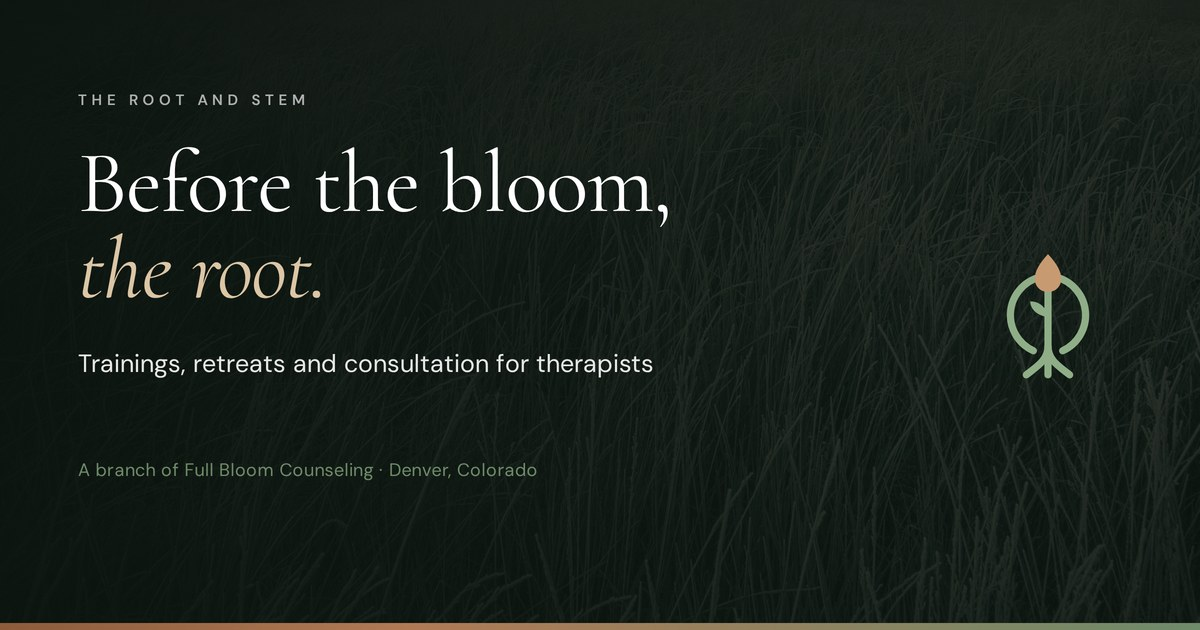
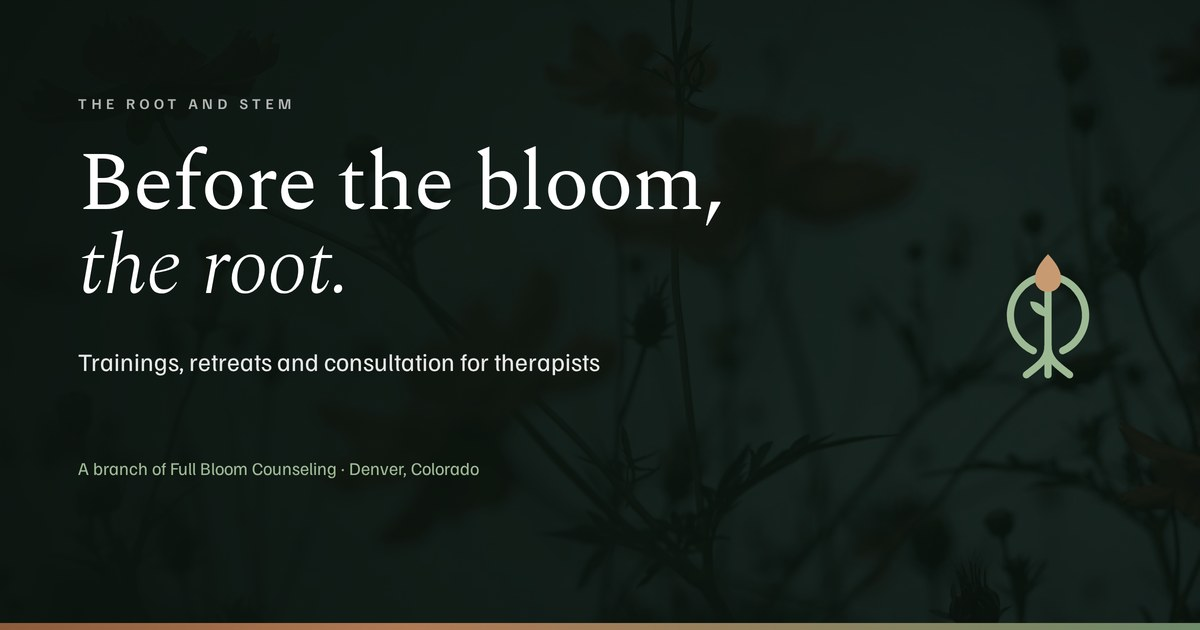
New hero, centred hero layout, daylight framing, second mark blooms
Caching (this is why the footer looked empty)
- _headers marked /js/* and /css/* immutable for a year. Cloudflare cached
  main.js?v=8 mid-deploy and pinned the stale 11,991-byte copy — the live
  file never contained the daylight code. Query-string versioning is not a
  safe cache key to mark immutable. Both are now must-revalidate; they're
  ~6KB brotli'd so it costs nothing. Fonts and images stay immutable
  because their filenames encode their content.

Hero
- New photograph: cosmos buds and stems at dusk (Adobe Stock 410305878),
  cropped below the moon, graded off its native teal into the palette.
  34KB at 2400px, down from 450KB.
- Content centred on screen; veil changed from a left-weighted gradient to
  a centred radial to suit.

Footer
- The daylight readout now says why it's there: a stem can't manufacture
  light, it can only lean toward what there is.

Easter egg
- The Full Bloom mark in the kin section blooms alongside the nav mark.

diff --git a/index.html b/index.html
@@ -27,10 +27,10 @@
 <link rel="icon" href="images/favicon.svg" type="image/svg+xml">
 <link rel="preload" href="fonts/spectral-400-normal-latin.woff2" as="font" type="font/woff2" crossorigin>
 <link rel="preload" href="fonts/familjen-400-normal-latin.woff2" as="font" type="font/woff2" crossorigin>
-<link rel="preload" as="image" type="image/webp" href="images/hero-stems-1440.webp"
-      imagesrcset="images/hero-stems-640.webp 640w, images/hero-stems-1024.webp 1024w, images/hero-stems-1440.webp 1440w, images/hero-stems-1920.webp 1920w, images/hero-stems-2400.webp 2400w"
+<link rel="preload" as="image" type="image/webp" href="images/hero-bloom-1440.webp"
+      imagesrcset="images/hero-bloom-640.webp 640w, images/hero-bloom-1024.webp 1024w, images/hero-bloom-1440.webp 1440w, images/hero-bloom-1920.webp 1920w, images/hero-bloom-2400.webp 2400w"
       imagesizes="100vw" fetchpriority="high">
-<link rel="stylesheet" href="css/style.css?v=8">
+<link rel="stylesheet" href="css/style.css?v=10">
 
 <script type="application/ld+json">
 {
@@ -326,9 +326,9 @@
 <section class="hero">
   <div class="hero-media" data-parallax="0.18">
     <picture>
-      <source type="image/webp" srcset="images/hero-stems-640.webp 640w, images/hero-stems-1024.webp 1024w, images/hero-stems-1440.webp 1440w, images/hero-stems-1920.webp 1920w, images/hero-stems-2400.webp 2400w" sizes="100vw">
-      <source type="image/jpeg" srcset="images/hero-stems-640.jpg 640w, images/hero-stems-1024.jpg 1024w, images/hero-stems-1440.jpg 1440w, images/hero-stems-1920.jpg 1920w, images/hero-stems-2400.jpg 2400w" sizes="100vw">
-      <img src="images/hero-stems-2400.jpg" alt="A field of tall grass and flower stems standing in early morning mist" width="2400" height="1350" fetchpriority="high" decoding="async">
+      <source type="image/webp" srcset="images/hero-bloom-640.webp 640w, images/hero-bloom-1024.webp 1024w, images/hero-bloom-1440.webp 1440w, images/hero-bloom-1920.webp 1920w, images/hero-bloom-2400.webp 2400w" sizes="100vw">
+      <source type="image/jpeg" srcset="images/hero-bloom-640.jpg 640w, images/hero-bloom-1024.jpg 1024w, images/hero-bloom-1440.jpg 1440w, images/hero-bloom-1920.jpg 1920w, images/hero-bloom-2400.jpg 2400w" sizes="100vw">
+      <img src="images/hero-bloom-2400.jpg" alt="Cosmos flowers and unopened buds on tall stems against a deep blue-green dusk" width="2400" height="1350" fetchpriority="high" decoding="async">
     </picture>
   </div>
   <div class="hero-veil" aria-hidden="true"></div>
@@ -556,8 +556,16 @@
           <path d="M32 47 C32 54 37.5 57 42.5 61"/>
           <path d="M32 47 V61"/>
         </g>
-        <path d="M32 2.5 C36.4 7.2 38.4 11 38.4 14.4 C38.4 18.2 35.6 20.8 32 20.8 C28.4 20.8 25.6 18.2 25.6 14.4 C25.6 11 27.6 7.2 32 2.5 Z" fill="currentColor"/>
+        <path class="brand-bud" d="M32 2.5 C36.4 7.2 38.4 11 38.4 14.4 C38.4 18.2 35.6 20.8 32 20.8 C28.4 20.8 25.6 18.2 25.6 14.4 C25.6 11 27.6 7.2 32 2.5 Z" fill="currentColor"/>
         <path d="M32 33 C26.2 32.2 23.4 28.8 23.4 25.4 C27.8 25.4 31.2 28.2 32 33 Z" fill="currentColor"/>
+        <g class="brand-flower" aria-hidden="true">
+          <ellipse cx="32" cy="7.2" rx="3.5" ry="7" transform="rotate(0 32 14)"/>
+          <ellipse cx="32" cy="7.2" rx="3.5" ry="7" transform="rotate(72 32 14)"/>
+          <ellipse cx="32" cy="7.2" rx="3.5" ry="7" transform="rotate(144 32 14)"/>
+          <ellipse cx="32" cy="7.2" rx="3.5" ry="7" transform="rotate(216 32 14)"/>
+          <ellipse cx="32" cy="7.2" rx="3.5" ry="7" transform="rotate(288 32 14)"/>
+          <circle class="brand-eye" cx="32" cy="14" r="2.6"/>
+        </g>
       </svg>
       <div>
         <span class="label">Our people</span>
@@ -677,9 +685,16 @@
       </div>
     </div>
     <div class="daylight" id="daylight" hidden>
-      <span class="daylight-label">Today in Denver</span>
-      <p class="daylight-line"><span id="dl-len"></span><span id="dl-delta"></span></p>
-      <p class="daylight-sun"><span id="dl-rise"></span><i></i><span id="dl-set"></span></p>
+      <div class="daylight-head">
+        <span class="daylight-label">Light in Denver today</span>
+        <p class="daylight-why">A stem can't manufacture light. It can only lean toward
+          whatever there is. Worth knowing how much that is — for your clients in
+          February, and for you.</p>
+      </div>
+      <div class="daylight-data">
+        <p class="daylight-line"><span id="dl-len"></span><span id="dl-delta"></span></p>
+        <p class="daylight-sun"><span id="dl-rise"></span><i></i><span id="dl-set"></span></p>
+      </div>
     </div>
 
     <div class="foot-base">
@@ -690,6 +705,6 @@
   </div>
 </footer>
 
-<script src="js/main.js?v=8" defer></script>
+<script src="js/main.js?v=10" defer></script>
 </body>
 </html>

diff --git a/css/style.css b/css/style.css
@@ -218,7 +218,7 @@ strong{font-weight:600}
 .drawer > .btn{display:block;margin:22px var(--gut) 30px;text-align:center}
 
 /* ── Hero ─────────────────────────────────────────────────── */
-.hero{position:relative;min-height:100svh;display:flex;align-items:flex-end;padding:calc(var(--nav-h) + 80px) 0 110px;overflow:hidden;background:var(--forest-deep)}
+.hero{position:relative;min-height:100svh;display:flex;align-items:center;justify-content:center;text-align:center;padding:calc(var(--nav-h) + 60px) 0 90px;overflow:hidden;background:var(--forest-deep)}
 /* <picture> is a real box between the wrapper and the <img>; without an
    explicit height here the img's height:100% has nothing to resolve
    against and the photo stops short of filling the section. */
@@ -228,16 +228,16 @@ strong{font-weight:600}
 .hero-veil{
   position:absolute;inset:0;z-index:1;
   background:
-    linear-gradient(to bottom,rgba(12,20,15,.66) 0%,rgba(12,20,15,.20) 34%,rgba(12,20,15,.55) 72%,rgba(12,20,15,.90) 100%),
-    linear-gradient(to right,rgba(12,20,15,.55) 0%,transparent 62%);
+    linear-gradient(to bottom,rgba(12,20,15,.62) 0%,rgba(12,20,15,.30) 30%,rgba(12,20,15,.52) 68%,rgba(12,20,15,.88) 100%),
+    radial-gradient(120% 85% at 50% 50%, rgba(12,20,15,.52) 0%, rgba(12,20,15,.18) 55%, transparent 100%);
 }
 .hero-inner{position:relative;z-index:2;width:100%}
-@media (min-width:1100px){.hero-inner{padding-left:calc(var(--gut) + 26px)}}
+
 .hero .kicker{color:rgba(255,255,255,.8);margin-bottom:26px}
-.hero h1{color:#fff;margin-bottom:30px;max-width:none}
+.hero h1{color:#fff;margin:0 auto 30px;max-width:none}
 .hero h1 br{display:block}
-.hero-sub{color:rgba(255,255,255,.85);max-width:50ch;font-size:clamp(1rem,1.35vw,1.16rem);margin-bottom:38px}
-.hero-cta{display:flex;flex-wrap:wrap;gap:14px}
+.hero-sub{color:rgba(255,255,255,.85);max-width:54ch;font-size:clamp(1rem,1.35vw,1.16rem);margin:0 auto 38px}
+.hero-cta{display:flex;flex-wrap:wrap;gap:14px;justify-content:center}
 
 
 
@@ -348,6 +348,8 @@ strong{font-weight:600}
 .kin{display:grid;grid-template-columns:auto 1fr;gap:44px;align-items:center;
   border-top:1px solid var(--rule);border-bottom:1px solid var(--rule);padding:56px 0}
 .kin-mark{width:64px;height:64px;color:var(--moss);flex-shrink:0}
+.kin-mark .brand-flower ellipse{fill:var(--clay)}
+.kin-mark .brand-eye{fill:var(--clay-dark)}
 .kin h2{margin:8px 0 16px}
 .kin p{color:var(--ink-soft);max-width:62ch}
 .kin .link-arrow{margin-top:22px}
@@ -459,7 +461,7 @@ strong{font-weight:600}
   body{font-size:16px}
   .pad-lg{padding:76px 0}
   .pad-xl{padding:88px 0}
-  .hero{min-height:92svh;padding:calc(var(--nav-h) + 60px) 0 76px}
+  .hero{min-height:92svh;padding:calc(var(--nav-h) + 50px) 0 70px}
   /* Portrait crop lands in the fog; bias down to the treeline and
      deepen the veil where the copy sits. */
   .hero-media img{object-position:50% 68%}
@@ -535,9 +537,13 @@ strong{font-weight:600}
    Computed client-side from the NOAA solar equations — no API,
    no key, no request. Changes every day of the year. */
 .daylight{
-  margin-top:64px;padding:30px 0 4px;border-top:1px solid rgba(255,255,255,.11);
-  display:grid;grid-template-columns:auto 1fr auto;gap:8px 30px;align-items:baseline
+  margin-top:64px;padding:34px 0 4px;border-top:1px solid rgba(255,255,255,.11);
+  display:grid;grid-template-columns:minmax(0,1fr) minmax(0,1fr);gap:14px 56px;align-items:start
 }
+.daylight-why{
+  margin:10px 0 0;max-width:44ch;font-size:.88rem;line-height:1.65;color:rgba(255,255,255,.6)
+}
+.daylight-data{display:flex;flex-direction:column;gap:10px;align-items:flex-start}
 .daylight-label{
   font-size:.62rem;font-weight:600;letter-spacing:.22em;text-transform:uppercase;
   color:var(--moss-light);white-space:nowrap
@@ -548,11 +554,11 @@ strong{font-weight:600}
 }
 .daylight-line #dl-delta{display:block;font-size:.82em;font-style:italic;color:var(--moss-light);margin-top:3px}
 .daylight-sun{
-  margin:0;font-size:.76rem;letter-spacing:.1em;color:rgba(255,255,255,.55);
+  margin:0;font-size:.76rem;letter-spacing:.1em;color:rgba(255,255,255,.6);
   display:flex;align-items:center;gap:12px;white-space:nowrap
 }
 .daylight-sun i{width:26px;height:1px;background:rgba(255,255,255,.28);display:block}
 @media (max-width:780px){
-  .daylight{grid-template-columns:1fr;gap:10px;margin-top:46px}
+  .daylight{grid-template-columns:1fr;gap:18px;margin-top:46px}
   .daylight-sun{justify-content:flex-start}
 }

diff --git a/404.html b/404.html
@@ -6,7 +6,7 @@
 <title>Page not found | The Root and Stem</title>
 <meta name="robots" content="noindex">
 <link rel="icon" href="/images/favicon.svg" type="image/svg+xml">
-<link rel="stylesheet" href="/css/style.css?v=8">
+<link rel="stylesheet" href="/css/style.css?v=10">
 <style>
   .lost{min-height:100svh;display:flex;align-items:center;justify-content:center;text-align:center;background:var(--forest-deep);padding:40px 22px}
   .lost-mark{width:52px;height:66px;color:var(--moss);margin:0 auto 34px}
